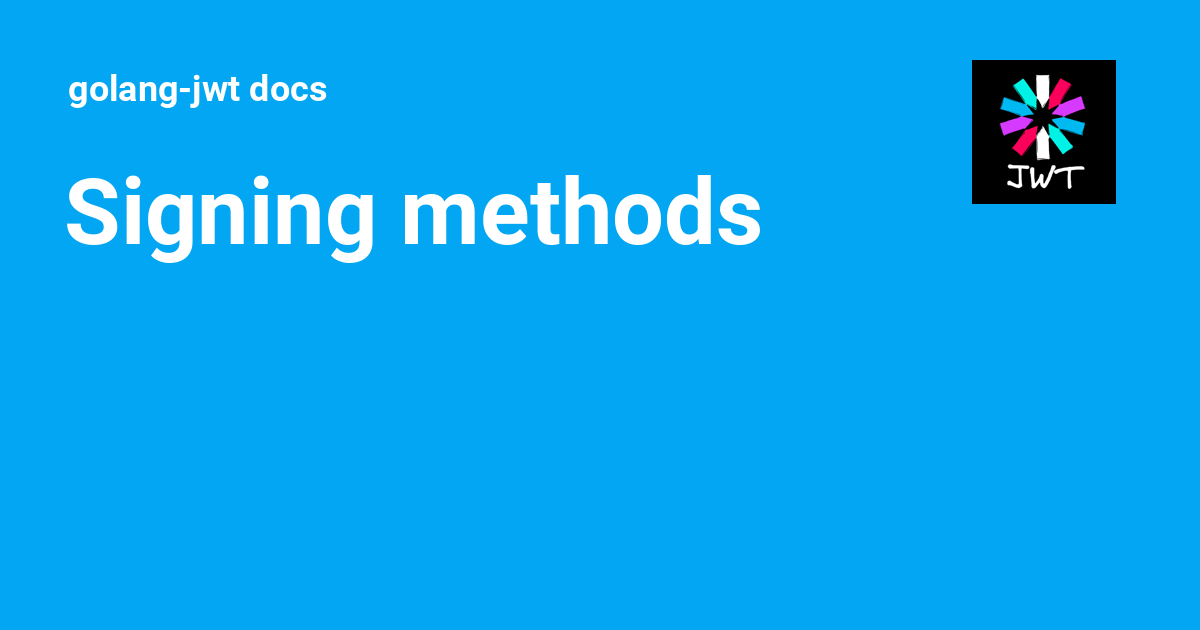
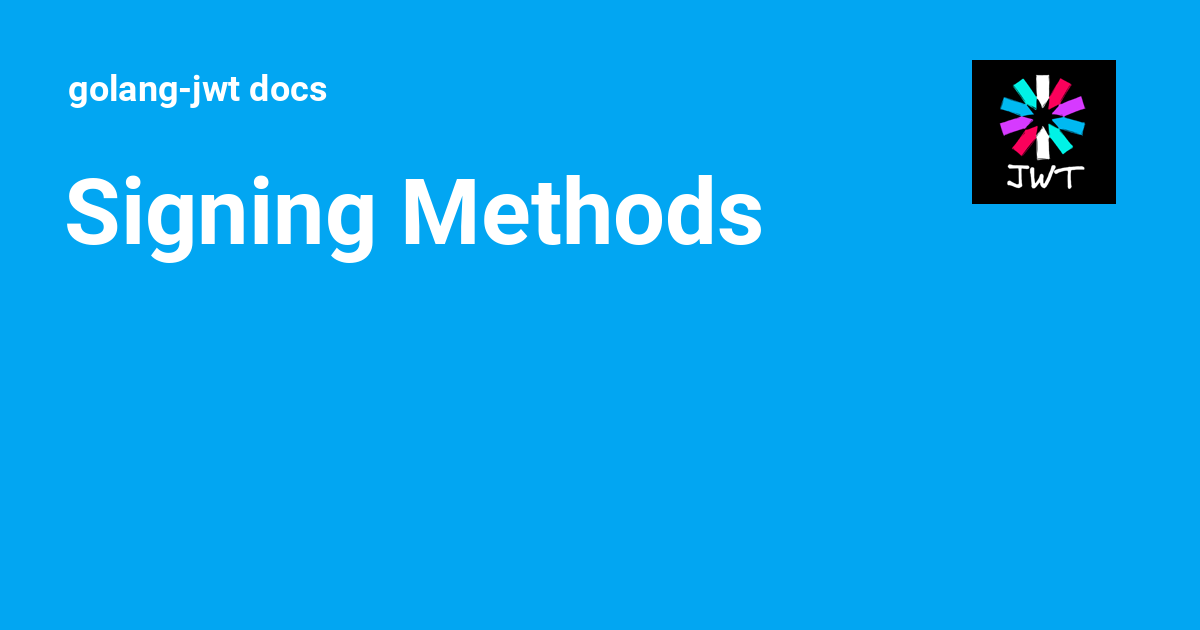
Deployed 0bc1aae with MkDocs version 1.4.2 (9.1.4)

Changed region(s): [[0.4008, 0.3016, 0.6167, 0.3921], [0.3392, 0.2714, 0.4008, 0.3619]]

diff --git a/usage/signing_methods/index.html b/usage/signing_methods/index.html
@@ -19,7 +19,7 @@
     
     
       
-        <title>Signing methods - golang-jwt docs</title>
+        <title>Signing Methods - golang-jwt docs</title>
       
     
     
@@ -51,7 +51,7 @@
       
         <meta  property="og:type"  content="website" >
       
-        <meta  property="og:title"  content="Signing methods - golang-jwt docs" >
+        <meta  property="og:title"  content="Signing Methods - golang-jwt docs" >
       
         <meta  property="og:description"  content="None" >
       
@@ -67,7 +67,7 @@
       
         <meta  name="twitter:card"  content="summary_large_image" >
       
-        <meta  name="twitter:title"  content="Signing methods - golang-jwt docs" >
+        <meta  name="twitter:title"  content="Signing Methods - golang-jwt docs" >
       
         <meta  name="twitter:description"  content="None" >
       
@@ -91,6 +91,11 @@
     <input class="md-toggle" data-md-toggle="search" type="checkbox" id="__search" autocomplete="off">
     <label class="md-overlay" for="__drawer"></label>
     <div data-md-component="skip">
+      
+        
+        <a href="#signing-methods" class="md-skip">
+          Skip to content
+        </a>
       
     </div>
     <div data-md-component="announce">
@@ -120,7 +125,7 @@
         <div class="md-header__topic" data-md-component="header-topic">
           <span class="md-ellipsis">
             
-              Signing methods
+              Signing Methods
             
           </span>
         </div>
@@ -350,10 +355,43 @@
       <input class="md-nav__toggle md-toggle" type="checkbox" id="__toc">
       
       
+        
+      
+      
+        <label class="md-nav__link md-nav__link--active" for="__toc">
+          Signing Methods
+          <span class="md-nav__icon md-icon"></span>
+        </label>
       
       <a href="./" class="md-nav__link md-nav__link--active">
-        Signing methods
+        Signing Methods
       </a>
+      
+        
+
+<nav class="md-nav md-nav--secondary" aria-label="Table of contents">
+  
+  
+  
+    
+  
+  
+    <label class="md-nav__title" for="__toc">
+      <span class="md-nav__icon md-icon"></span>
+      Table of contents
+    </label>
+    <ul class="md-nav__list" data-md-component="toc" data-md-scrollfix>
+      
+        <li class="md-nav__item">
+  <a href="#signing-methods-and-key-types" class="md-nav__link">
+    Signing Methods and Key Types
+  </a>
+  
+</li>
+      
+    </ul>
+  
+</nav>
       
     </li>
   
@@ -381,9 +419,74 @@
                   
 
 
-  <h1>Signing methods</h1>
-
-
+<h1 id="signing-methods">Signing Methods</h1>
+<p>There are several signing methods available, and you should probably take the time to learn about the various options before choosing one.  The principal design decision is most likely going to be <strong>symmetric</strong> vs <strong>asymmetric</strong>.</p>
+<p>Symmetric signing methods, such as HMAC, use only a single secret. This is probably the simplest signing method to use since any <code>[]byte</code> can be used as a valid secret. They are also slightly computationally faster to use, though this rarely is enough to matter. Symmetric signing methods work the best when both producers and consumers of tokens are trusted, or even the same system. Since the same secret is used to both sign and validate tokens, you can't easily distribute the key for validation.</p>
+<p>Asymmetric signing methods, such as RSA, use different keys for signing and verifying tokens. This makes it possible to produce tokens with a private key, and allow any consumer to access the public key for verification.</p>
+<h2 id="signing-methods-and-key-types">Signing Methods and Key Types</h2>
+<p>Each signing method expects a different object type for its signing keys. The following table lists all supported signing methods in the core library.</p>
+<table>
+<thead>
+<tr>
+<th>Name</th>
+<th><code>"alg"</code> Parameter Values</th>
+<th>Signing Key  Type</th>
+<th>Verification Key Type</th>
+</tr>
+</thead>
+<tbody>
+<tr>
+<td><a href="https://pkg.go.dev/github.com/golang-jwt/jwt/v5#SigningMethodHMAC">HMAC signing method</a><sup id="fnref:hmac"><a class="footnote-ref" href="#fn:hmac">1</a></sup></td>
+<td><code>HS256</code>,<code>HS384</code>,<code>HS512</code></td>
+<td><code>[]byte</code></td>
+<td><code>[]byte</code></td>
+</tr>
+<tr>
+<td><a href="https://pkg.go.dev/github.com/golang-jwt/jwt/v5#SigningMethodRSA">RSA signing method</a><sup id="fnref:rsa"><a class="footnote-ref" href="#fn:rsa">2</a></sup></td>
+<td><code>RS256</code>,<code>RS384</code>,<code>RS512</code></td>
+<td><a href="https://pkg.go.dev/crypto/rsa#PrivateKey"><code>*rsa.PrivateKey</code></a></td>
+<td><a href="https://pkg.go.dev/crypto/rsa#PublicKey"><code>*rsa.PublicKey</code></a></td>
+</tr>
+<tr>
+<td><a href="https://pkg.go.dev/github.com/golang-jwt/jwt/v5#SigningMethodECDSA">ECDSA signing method</a><sup id="fnref:ecdsa"><a class="footnote-ref" href="#fn:ecdsa">3</a></sup></td>
+<td><code>ES256</code>,<code>ES384</code>,<code>ES512</code></td>
+<td><a href="https://pkg.go.dev/crypto/ecdsa#PrivateKey"><code>*ecdsa.PrivateKey</code></a></td>
+<td><a href="https://pkg.go.dev/crypto/ecdsa#PublicKey"><code>*ecdsa.PublicKey</code></a></td>
+</tr>
+<tr>
+<td><a href="https://pkg.go.dev/github.com/golang-jwt/jwt/v5#SigningMethodRSAPSS">RSA-PSS signing method</a><sup id="fnref:rsapss"><a class="footnote-ref" href="#fn:rsapss">4</a></sup></td>
+<td><code>PS256</code>,<code>PS384</code>,<code>PS512</code></td>
+<td><a href="https://pkg.go.dev/crypto/rsa#PrivateKey"><code>*rsa.PrivateKey</code></a></td>
+<td><a href="https://pkg.go.dev/crypto/rsa#PublicKey"><code>*rsa.PublicKey</code></a></td>
+</tr>
+<tr>
+<td><a href="https://pkg.go.dev/github.com/golang-jwt/jwt/v5#SigningMethodEd25519">EdDSA signing method</a><sup id="fnref:eddsa"><a class="footnote-ref" href="#fn:eddsa">5</a></sup></td>
+<td><code>Ed25519</code></td>
+<td><a href="https://pkg.go.dev/crypto/ed25519#PrivateKey"><code>ed25519.PrivateKey</code></a></td>
+<td><a href="https://pkg.go.dev/crypto/ed25519#PublicKey"><code>ed25519.PublicKey</code></a></td>
+</tr>
+</tbody>
+</table>
+<div class="footnote">
+<hr />
+<ol>
+<li id="fn:hmac">
+<p><a href="https://datatracker.ietf.org/doc/html/rfc7518#section-3.2">Section 3.2 of RFC 7518</a>&#160;<a class="footnote-backref" href="#fnref:hmac" title="Jump back to footnote 1 in the text">&#8617;</a></p>
+</li>
+<li id="fn:rsa">
+<p><a href="https://datatracker.ietf.org/doc/html/rfc7518#section-3.3">Section 3.2 of RFC 7518</a>&#160;<a class="footnote-backref" href="#fnref:rsa" title="Jump back to footnote 2 in the text">&#8617;</a></p>
+</li>
+<li id="fn:ecdsa">
+<p><a href="https://datatracker.ietf.org/doc/html/rfc7518#section-3.4">Section 3.2 of RFC 7518</a>&#160;<a class="footnote-backref" href="#fnref:ecdsa" title="Jump back to footnote 3 in the text">&#8617;</a></p>
+</li>
+<li id="fn:rsapss">
+<p><a href="https://datatracker.ietf.org/doc/html/rfc7518#section-3.5">Section 3.2 of RFC 7518</a>&#160;<a class="footnote-backref" href="#fnref:rsapss" title="Jump back to footnote 4 in the text">&#8617;</a></p>
+</li>
+<li id="fn:eddsa">
+<p><a href="https://datatracker.ietf.org/doc/html/rfc8037#section-3.1">Section 3.1 of RFC 8037</a>&#160;<a class="footnote-backref" href="#fnref:eddsa" title="Jump back to footnote 5 in the text">&#8617;</a></p>
+</li>
+</ol>
+</div>
 
 
 

diff --git a/404.html b/404.html
@@ -311,7 +311,7 @@
   
     <li class="md-nav__item">
       <a href="/jwt/usage/signing_methods/" class="md-nav__link">
-        Signing methods
+        Signing Methods
       </a>
     </li>
   

diff --git a/index.html b/index.html
@@ -412,7 +412,7 @@
   
     <li class="md-nav__item">
       <a href="usage/signing_methods/" class="md-nav__link">
-        Signing methods
+        Signing Methods
       </a>
     </li>
   

diff --git a/usage/create/index.html b/usage/create/index.html
@@ -407,7 +407,7 @@
   
     <li class="md-nav__item">
       <a href="../signing_methods/" class="md-nav__link">
-        Signing methods
+        Signing Methods
       </a>
     </li>
   

diff --git a/usage/parse/index.html b/usage/parse/index.html
@@ -400,7 +400,7 @@
   
     <li class="md-nav__item">
       <a href="../signing_methods/" class="md-nav__link">
-        Signing methods
+        Signing Methods
       </a>
     </li>
   
